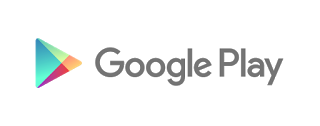
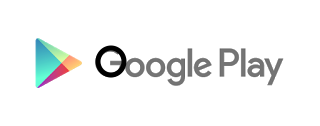
brand links changes

Changed region(s): [[0.2812, 0.3571, 0.4062, 0.619]]

diff --git a/src/app/home/home.component.html b/src/app/home/home.component.html
@@ -7,21 +7,21 @@
               <button type="button" data-bs-target="#carouselExampleCaptions" data-bs-slide-to="2" aria-label="Slide 3"></button>
             </div>
             <div class="carousel-inner">
-              <div class="carousel-item active" data-bs-interval="5000">
+              <div class="carousel-item active" data-bs-interval="3000">
                 <img src="../assets/home/slideshow-1.jpg" class="d-block w-100 slideshow-img" alt="slide-1">
                 <div class="carousel-caption d-md-block slideshow-1">
                   <p class="shop-desc">Find Your Perfect Look with Our Exclusive Women's Fashion!</p>
                   <button class="btn btn-danger btn-responsive" [routerLink]="['shop']" [queryParams]="{ source: 'shop-women' }">Shop For Women</button>
                 </div>
               </div>
-              <div class="carousel-item" data-bs-interval="5000">
+              <div class="carousel-item" data-bs-interval="3000">
                 <img src="../assets/home/slideshow-2.jpg" class="d-block w-100 slideshow-img" alt="slide-2">
                 <div class="carousel-caption d-md-block slideshow-2">
                   <p class="shop-desc">Explore Unique and Trendy Men's Fashion Collections!</p>
                   <button class="btn btn-danger btn-responsive" [routerLink]="['shop']" [queryParams]="{ source: 'shop-men' }">Shop For Men</button>
                 </div>
               </div>
-              <div class="carousel-item" data-bs-interval="5000">
+              <div class="carousel-item" data-bs-interval="3000">
                 <img src="../assets/home/slideshow-3.jpg" class="d-block w-100 slideshow-img" alt="slide-3">
                 <div class="carousel-caption d-md-block slideshow-3">
                   <p>Discover the Latest and Most Exciting Lifestyle and Accessories Collections!</p>
@@ -62,6 +62,15 @@
         </div>
       </div>
       <div class="brand-links">
+        <div class="container">
+          <div class="row">
+            <div class="col-md-4 mb-4" *ngFor="let logo of logos">
+              <a [routerLink]="['shop']" [queryParams]="{ source: logo.name }" class="logo-container">
+                <img [src]="logo.imageUrl" class="img-fluid" [alt]="logo.name">
+              </a>
+            </div>
+          </div>
+        </div>
       </div>
     </div>
 </div>

diff --git a/src/app/home/home.component.ts b/src/app/home/home.component.ts
@@ -1,22 +1,20 @@
 import { Component } from '@angular/core';
 import { OfferCard } from '../models/product.model';
-import { ProductService } from '../services/product-list-data.service';
-
 
 @Component({
   selector: 'app-home',
   templateUrl: './home.component.html',
-  styleUrl: './home.component.scss'
+  styleUrl: './home.component.scss',
 })
 export class HomeComponent {
 
   offerCards: OfferCard[] = [
     {
       imgSrc: '../assets/home/card-1.jpg',
-      title: 'Handbags',
+      title: 'Purses',
       text: 'MIN 40% OFF',
       link: 'shop',
-      queryParams: { source: 'handbags-offer'}
+      queryParams: { source: 'purses-offer'}
     },
     {
       imgSrc: '../assets/home/card-2.jpg',
@@ -42,11 +40,15 @@ export class HomeComponent {
   ];
 
   brandNames: string[] = [
-    'BrightBox', 'PureWave', 'ClearLine', 'QuickPulse', 'SunnySide', 
-    'BrightEra', 'ClearEdge', 'NextStep', 'VibeMax'
+    'BrightBox', 'PureWave', 'BrightEra', 'QuickPulse', 'SunnySide', 
+    'ClearLine', 'ClearEdge', 'NextStep', 'VibeMax'
   ];
 
-  constructor() {}
+  logos = this.brandNames.map(name => ({
+    name,
+    imageUrl: `../assets/brand-logos/${name.toLowerCase()}.png`
+  }));
 
+  constructor() {}
 
 }

diff --git a/src/app/shop-products/filters/filters.component.ts b/src/app/shop-products/filters/filters.component.ts
@@ -30,8 +30,8 @@ export class FiltersComponent {
       'shop-accessories': { option: "Accessories", filterType: "category" },
       'shoes-offer': { option: "Shoes", filterType: "category" },
       'makeup-offer': { option: "Makeup", filterType: "category" },
-      'handbags-offer': { option: "Accessories", filterType: "category" },
-      'watches-offer': { option: "Accessories", filterType: "category" }//multiple filters
+      'purses-offer': { option: "Purses", filterType: "category" },
+      'watches-offer': { option: "Watches", filterType: "category" }//multiple filters
     };
   
     const mapping = sourceMappings[this.source];

diff --git a/src/app/home/home.component.scss b/src/app/home/home.component.scss
@@ -94,6 +94,22 @@
                 margin: 0 35px;
             }
         }
+
+        .brand-links {
+            margin-top: 5rem;
+
+            .logo-container {
+                display: block;
+                position: relative;
+                overflow: hidden;
+                transition: transform 0.3s ease-out, box-shadow 0.3s ease-out;
+                &:hover {
+                    // transform: translateY(-7px);
+                    transform: rotate(10deg);
+                    box-shadow: 0 8px 20px rgba(0, 0, 0, 0.6);
+                }
+            } 
+        }
     }
 }
 

diff --git a/src/app/shop-products/shop-products.component.ts b/src/app/shop-products/shop-products.component.ts
@@ -74,6 +74,7 @@ export class ShopProductsComponent implements OnInit {
       event.preventDefault();
     }
     const sortCriteria: { [key: string]: (a: any, b: any) => number } = {
+      'new': (a, b) => a.reviewCount - b.reviewCount,
       'priceLowToHigh': (a, b) => a.discountedPrice - b.discountedPrice,
       'priceHighToLow': (a, b) => b.discountedPrice - a.discountedPrice,
       'ratings': (a, b) => b.ratings - a.ratings,

diff --git a/src/app/shop-products/filter-data.ts b/src/app/shop-products/filter-data.ts
@@ -11,7 +11,7 @@ export const FILTER_DATA = [
       options: [
         'Tshirts', 'Shirts', 'Skirts', 'Tops', 'Trousers', 'Dresses', 'Jeans',
         'Co-ords', 'Blazers', 'Sarees', 'Kurta-Sets', 'Heels',
-        'Shoes', 'Flats', 'Makeup', 'Accessories'
+        'Shoes', 'Flats', 'Makeup', 'Purses', 'Watches', 'Accessories'
       ]
     },
     {

diff --git a/src/app/product-details/product-details.component.ts b/src/app/product-details/product-details.component.ts
@@ -31,7 +31,7 @@ export class ProductDetailsComponent {
 
   constructor(private route: ActivatedRoute, private productService: ProductService, 
     private router: Router, public dialog: MatDialog,
-  private cartService: CartService) {}
+    private cartService: CartService) {}
 
   ngOnInit(): void {
     this.route.paramMap.subscribe(params => {

diff --git a/src/app/windowRef.ts b/src/app/windowRef.ts
@@ -1,0 +1,15 @@
+import { Injectable } from "@angular/core";
+
+function _window(): any {
+    return window;
+}
+
+@Injectable({
+    providedIn: 'root'
+})
+
+export class WindowRef {
+    get nativeWindow(): any {
+        return _window();
+    }
+}
